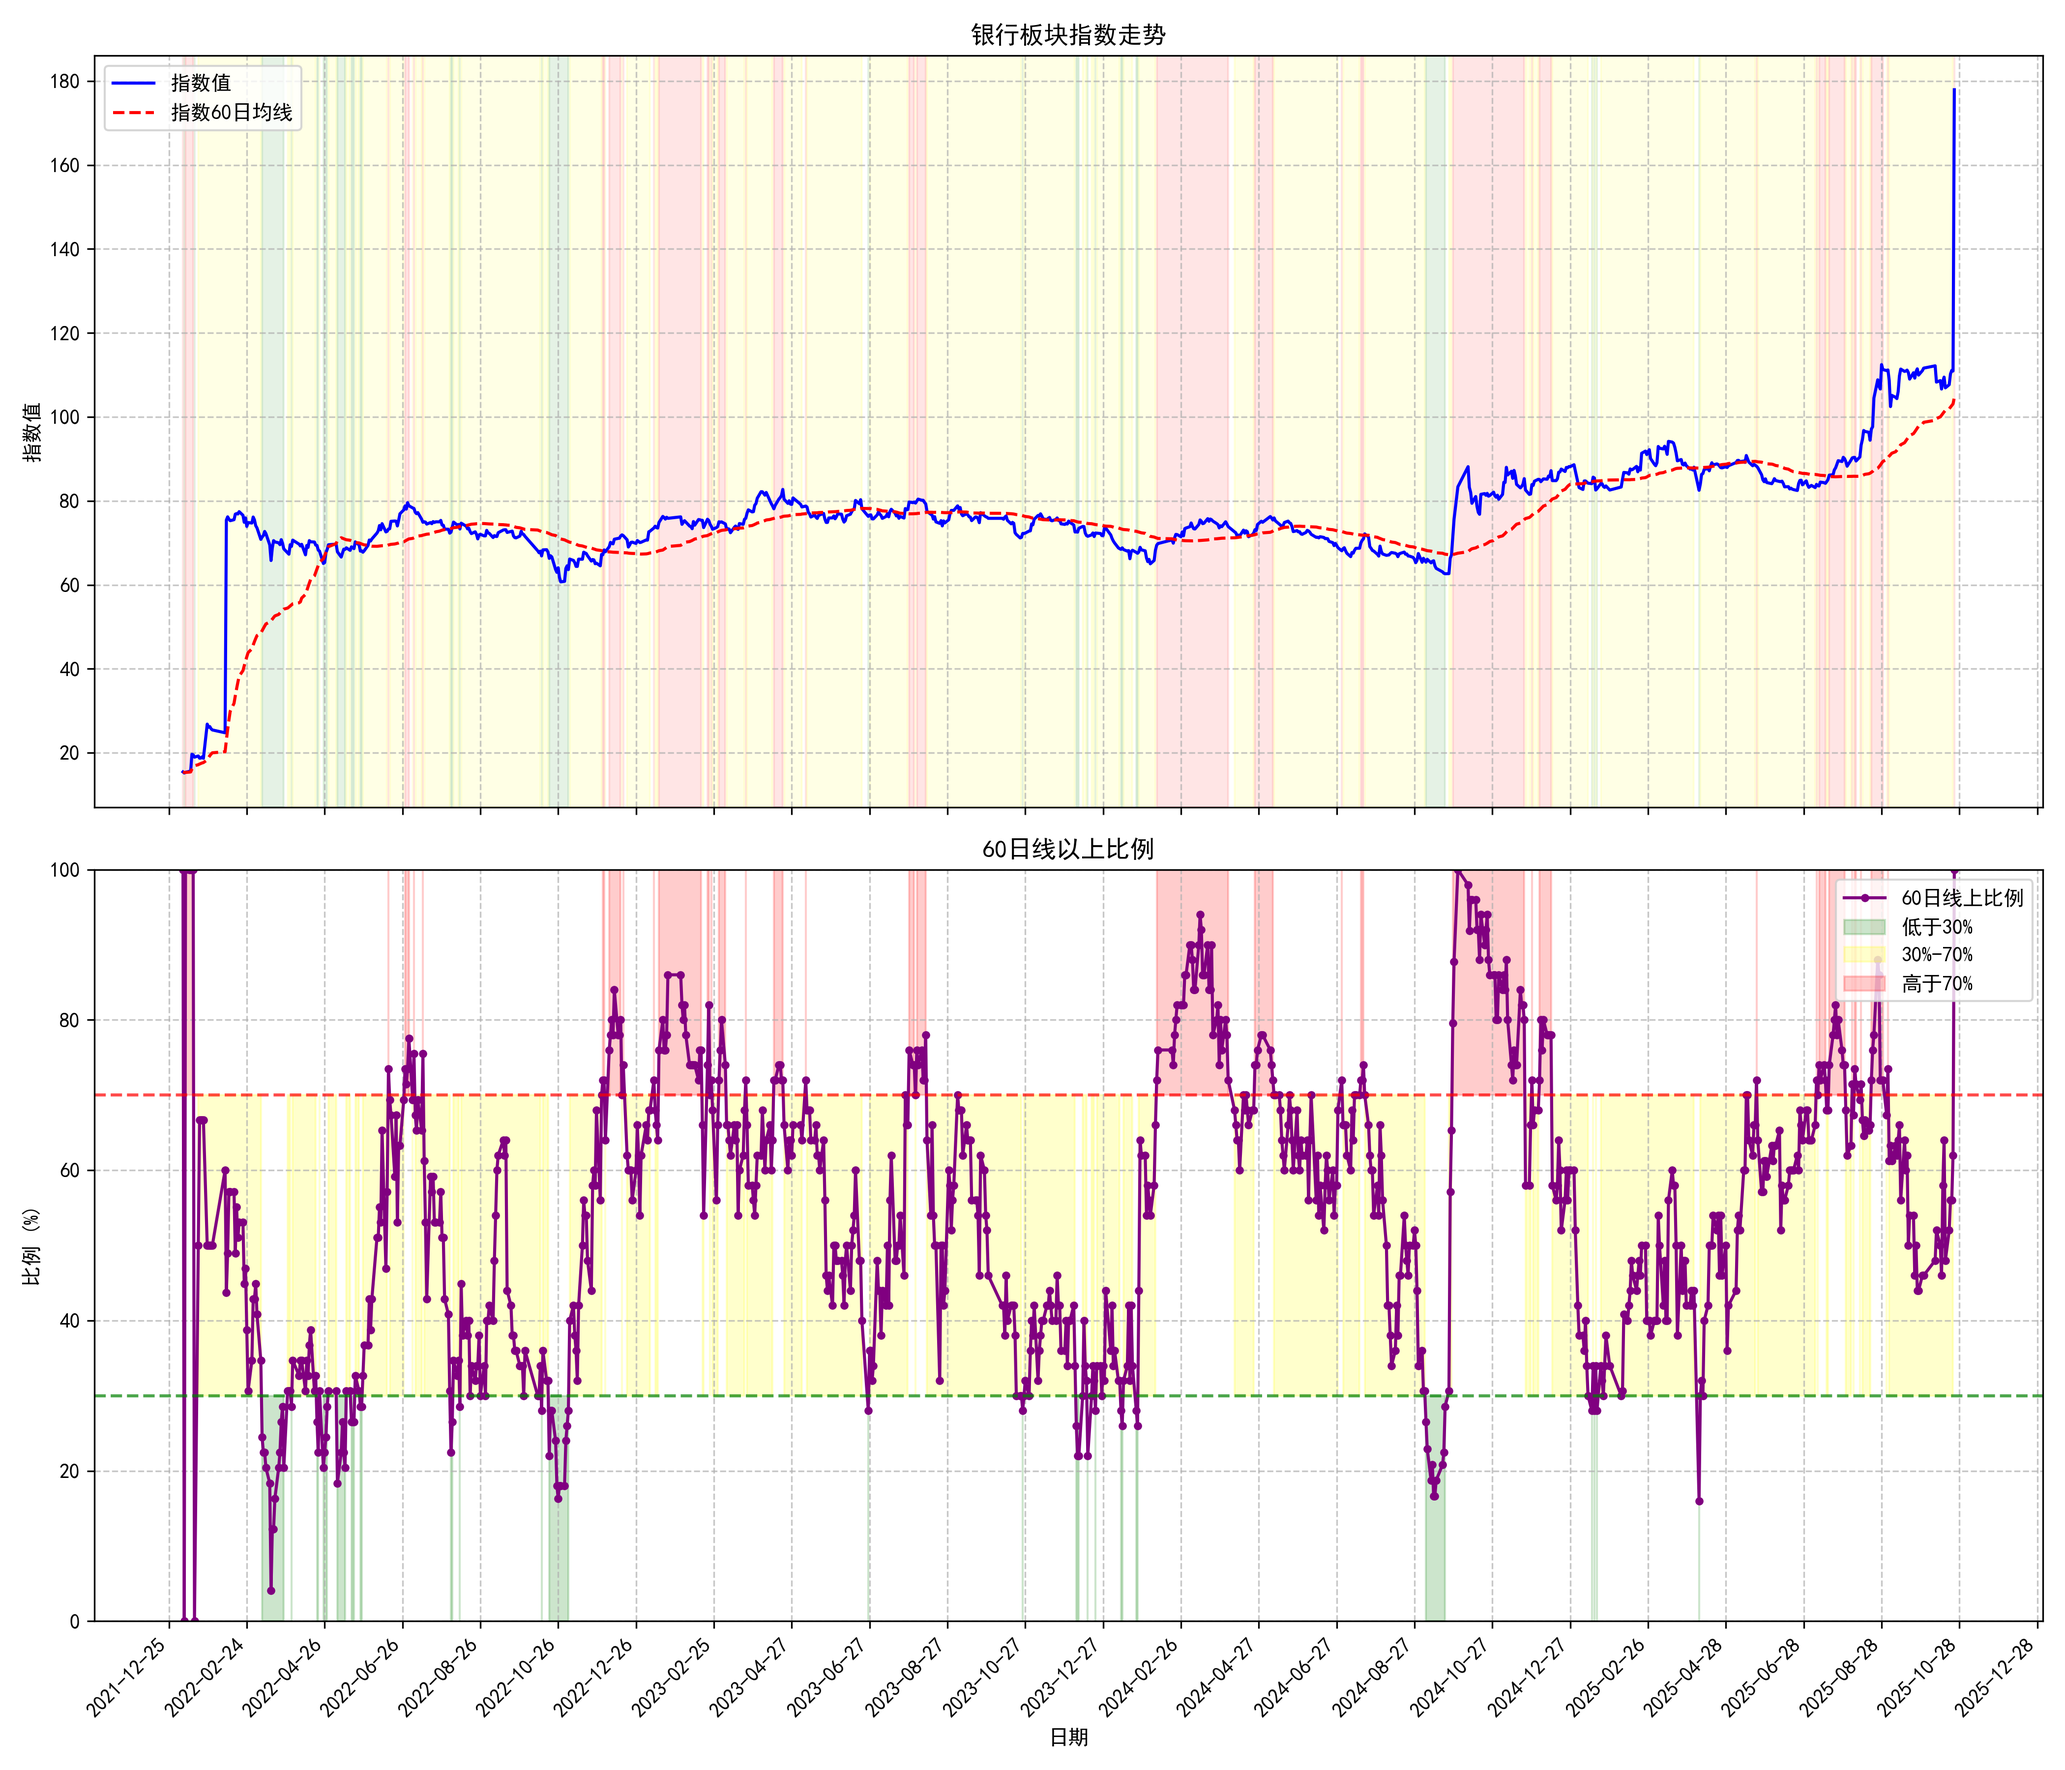
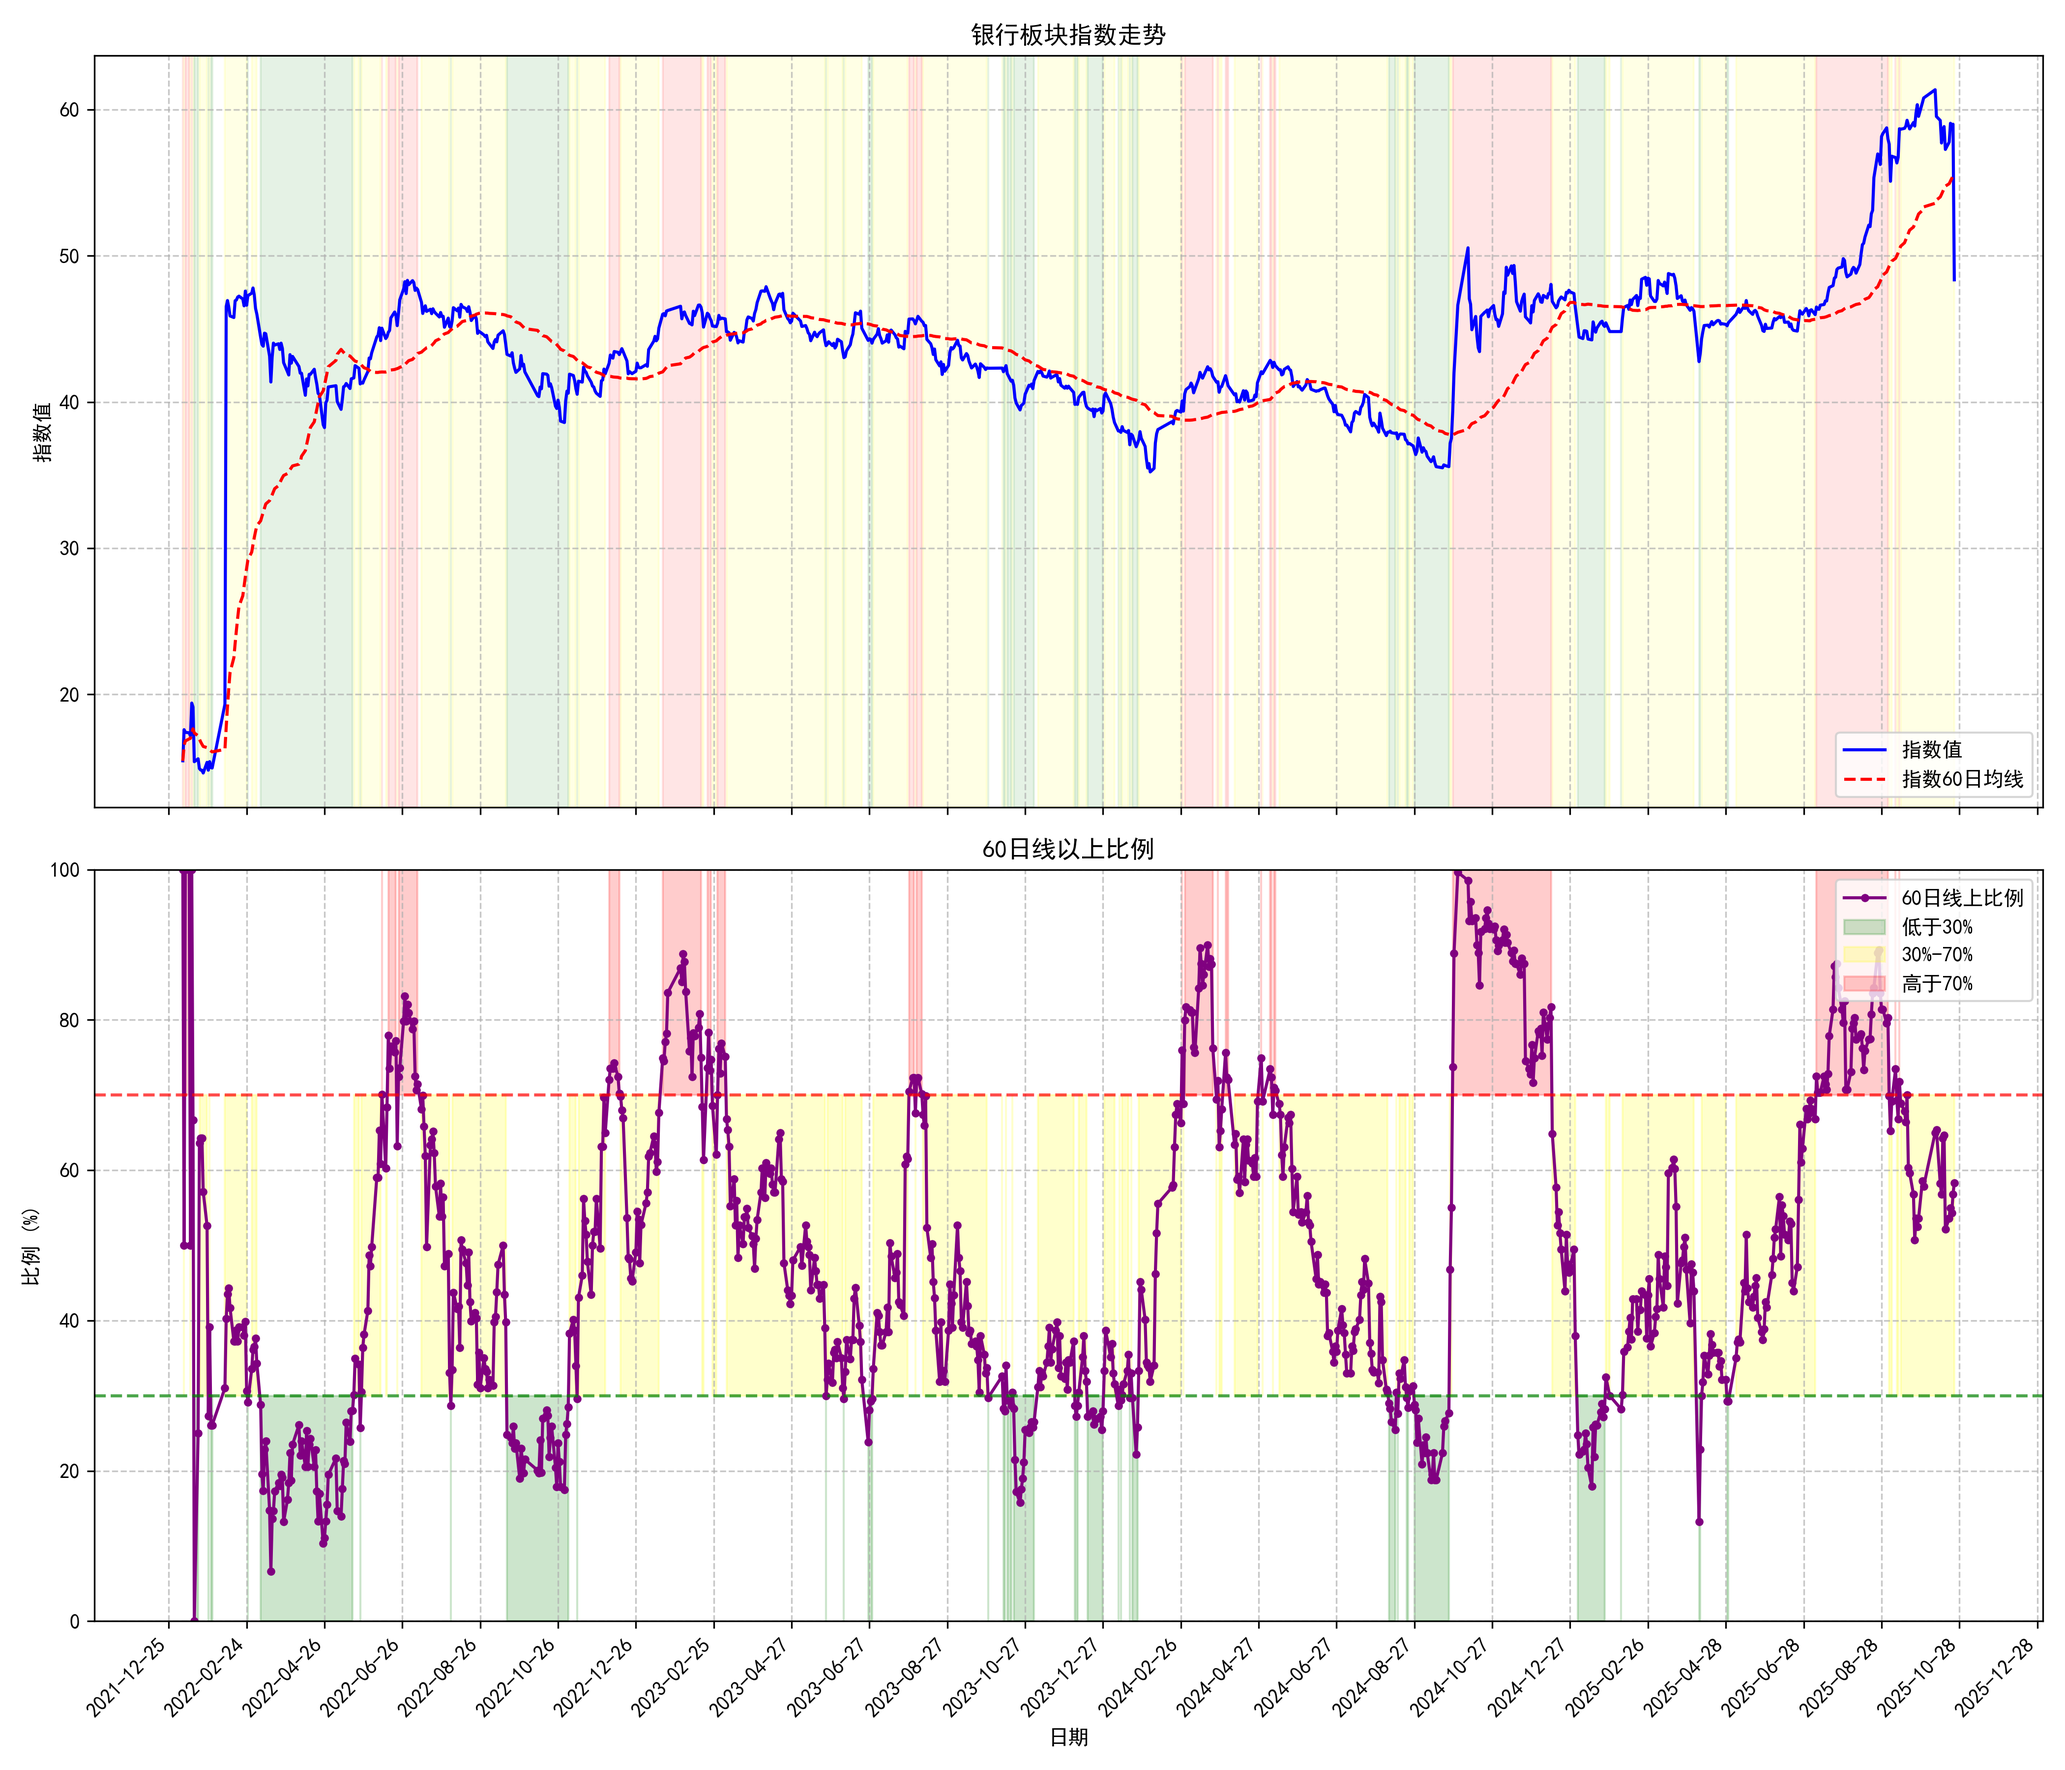
可用

Changed region(s): [[0.0312, 0.0311, 0.9669, 0.4667], [0.0624, 0.4978, 0.9669, 0.9333], [0.0, 0.2178, 0.0312, 0.2489]]

diff --git a/沪深300中证获取.py b/沪深300中证获取.py
@@ -23,7 +23,7 @@ sys.path.append(os.path.dirname(os.path.abspath(__file__)))
 from utils_email import send_email_if_signal
 def get_hs300_codes():
     """取沪深300最新成分股（含市场前缀 sh/sz）"""
-    df = ak.index_stock_cons(symbol="000016")          # 中证指数公司接口
+    df = ak.index_stock_cons(symbol="000300")          # 中证指数公司接口
     codes = []
     for _, row in df.iterrows():
         raw = row['品种代码'].zfill(6)
